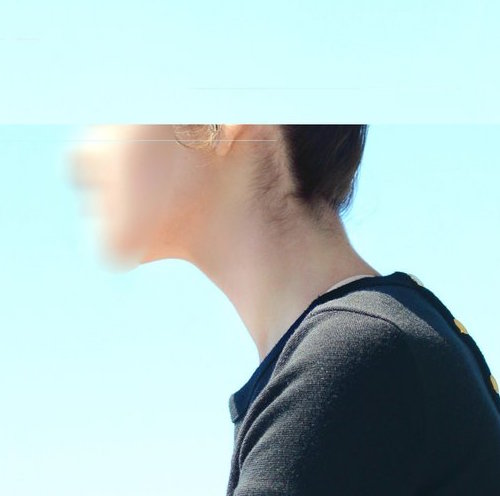
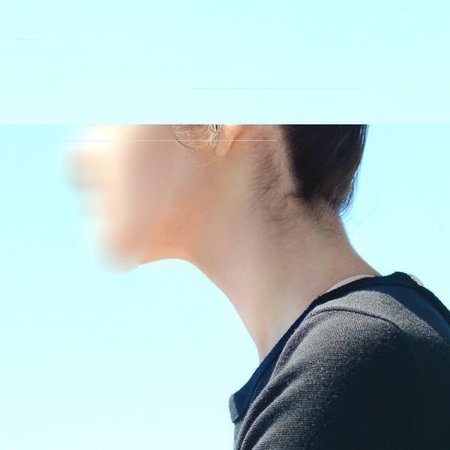
Updates to Resume. Added RSS link to About. Cropped profile pic. Edited bio line.

Changed region(s): [[0.1244, 0.2489, 1.0, 1.0], [0.3733, 0.4044, 0.4044, 0.4356]]

diff --git a/about.md b/about.md
@@ -10,4 +10,4 @@ layout: page
 
 <p>As a junior engineer in the early stages of my career, I am currently on the lookout for new opportunities to put my skills to use. I thrive when working with teams who share my work ethic, collaborative mindset, and commitment to supporting diversity and inclusion in the tech community. If you think I might be a good fit for an opening on your team, I encourage you to get in touch!</p>
 
-<p>And if you're curious about what I'm up to, you can follow me on <a href="http://www.twitter.com/cristynhoward">Twitter</a>, check out my <a href="http://www.github.com/cristynhoward">Github</a> profile, or subscribe to the RSS feed of my blog!</p>
+<p>And if you're curious about what I'm up to, you can follow me on <a href="http://www.twitter.com/cristynhoward">Twitter</a>, check out my <a href="http://www.github.com/cristynhoward">Github</a> profile, or subscribe to the <a href="https://cristynhoward.github.io/feed.xml">RSS feed</a> of my blog!</p>
